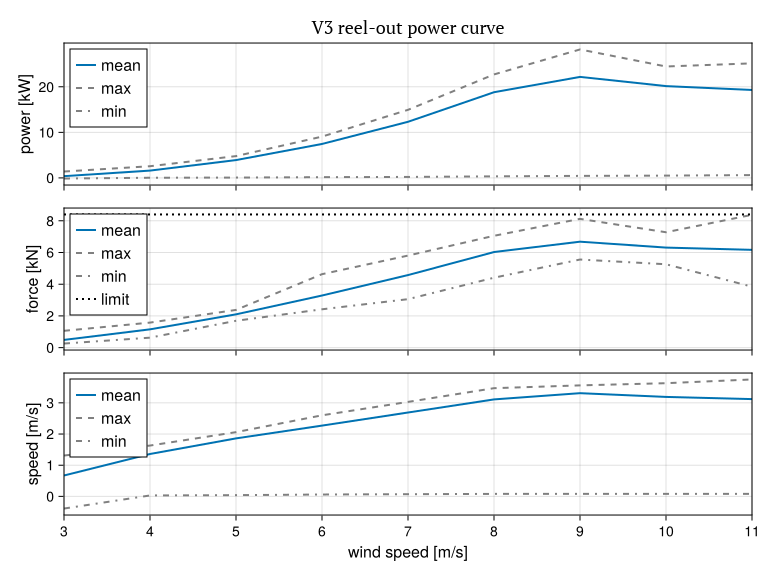
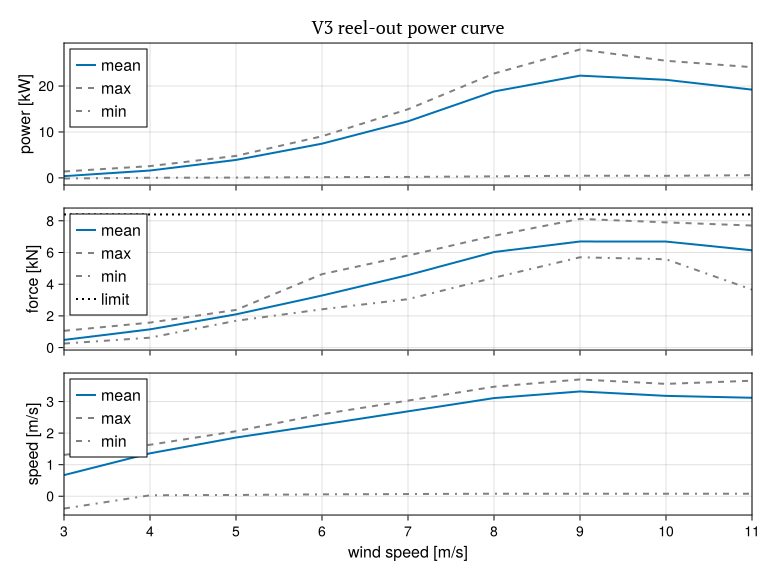
Update overview and powercurve

diff --git a/notebooks/overview.md b/notebooks/overview.md
@@ -6,6 +6,6 @@
 | 2026-08-27 | 19:05:02 | 6.0 | 1.01 | 111.9 | 2.8 | 6 | 6 | 7451 | 161 | 9061 | 2418 | 3287 | 4633 | 0.06 | 2.27 | 2.6 | 0.267 |
 | 2026-08-26 | 21:10:09 | 7.0 | 0.99 | 205.0 | 3.4 | 5 | 5 | 12318 | 211 | 14942 | 3057 | 4577 | 5806 | 0.07 | 2.69 | 3.03 | 0.264 |
 | 2026-08-26 | 21:13:59 | 8.0 | 0.99 | 69.6 | 3.51 | 5 | 5 | 18808 | 338 | 22713 | 4410 | 6030 | 7054 | 0.08 | 3.11 | 3.47 | 0.263 |
-| 2026-08-27 | 20:38:47 | 9.0 | 0.92 | 71.3 | 3.4 | 4 | 4 | 22172 | 441 | 28198 | 5557 | 6682 | 8122 | 0.08 | 3.31 | 3.56 | 0.274 |
-| 2026-08-27 | 18:42:58 | 10.0 | 0.84 | 144.3 | 3.21 | 4 | 4 | 20151 | 500 | 24458 | 5259 | 6310 | 7278 | 0.08 | 3.19 | 3.63 | 0.299 |
-| 2026-08-27 | 19:22:53 | 11.0 | 0.85 | 101.2 | 3.62 | 4 | 4 | 19304 | 616 | 25146 | 3844 | 6168 | 8378 | 0.08 | 3.12 | 3.75 | 0.313 |
+| 2026-08-27 | 18:58:42 | 9.0 | 0.92 | 246.2 | 3.17 | 4 | 4 | 22255 | 473 | 27955 | 5699 | 6695 | 8122 | 0.08 | 3.32 | 3.7 | 0.274 |
+| 2026-08-27 | 22:19:35 | 10.0 | 0.84 | 174.9 | 4.1 | 4 | 4 | 21345 | 457 | 25493 | 5576 | 6690 | 7901 | 0.08 | 3.18 | 3.56 | 0.296 |
+| 2026-08-27 | 22:26:37 | 11.0 | 0.85 | 203.6 | 4.48 | 4 | 4 | 19207 | 585 | 24098 | 3657 | 6139 | 7701 | 0.08 | 3.12 | 3.66 | 0.314 |
